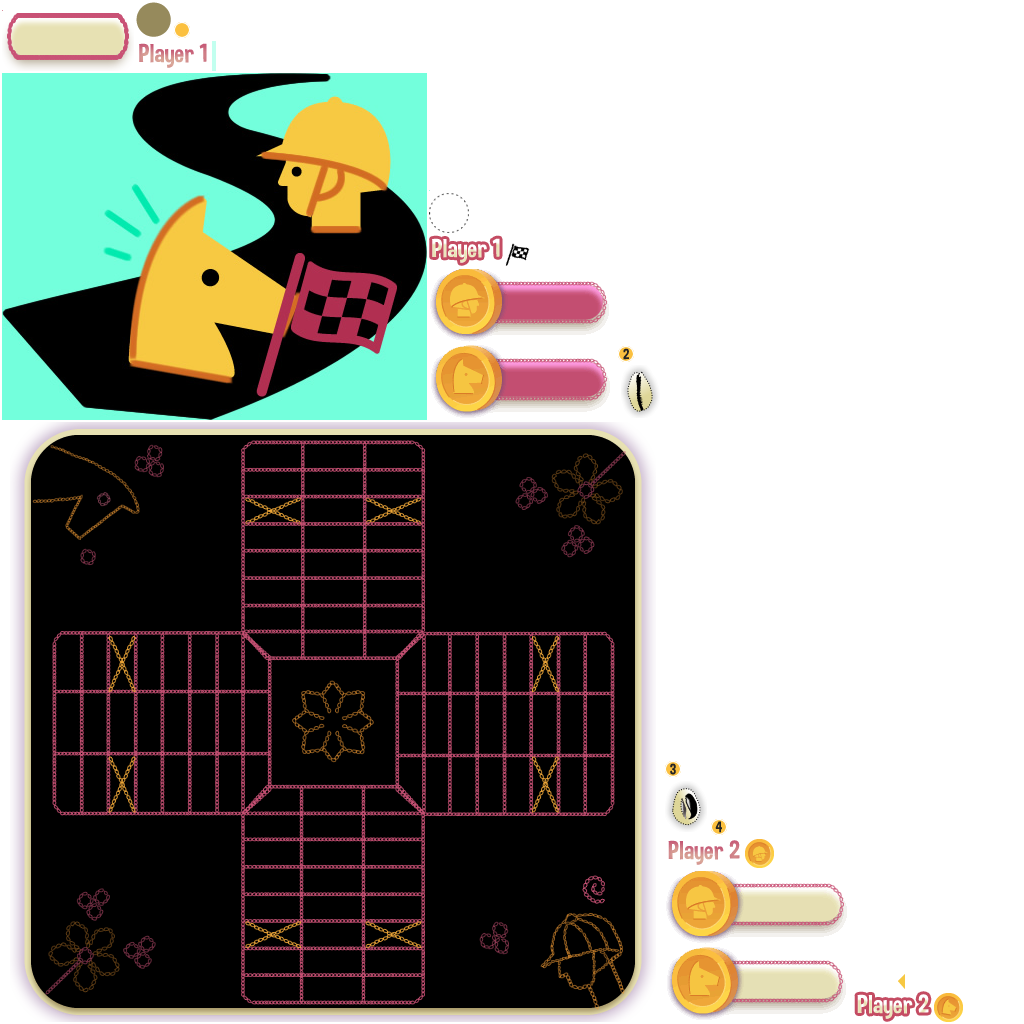
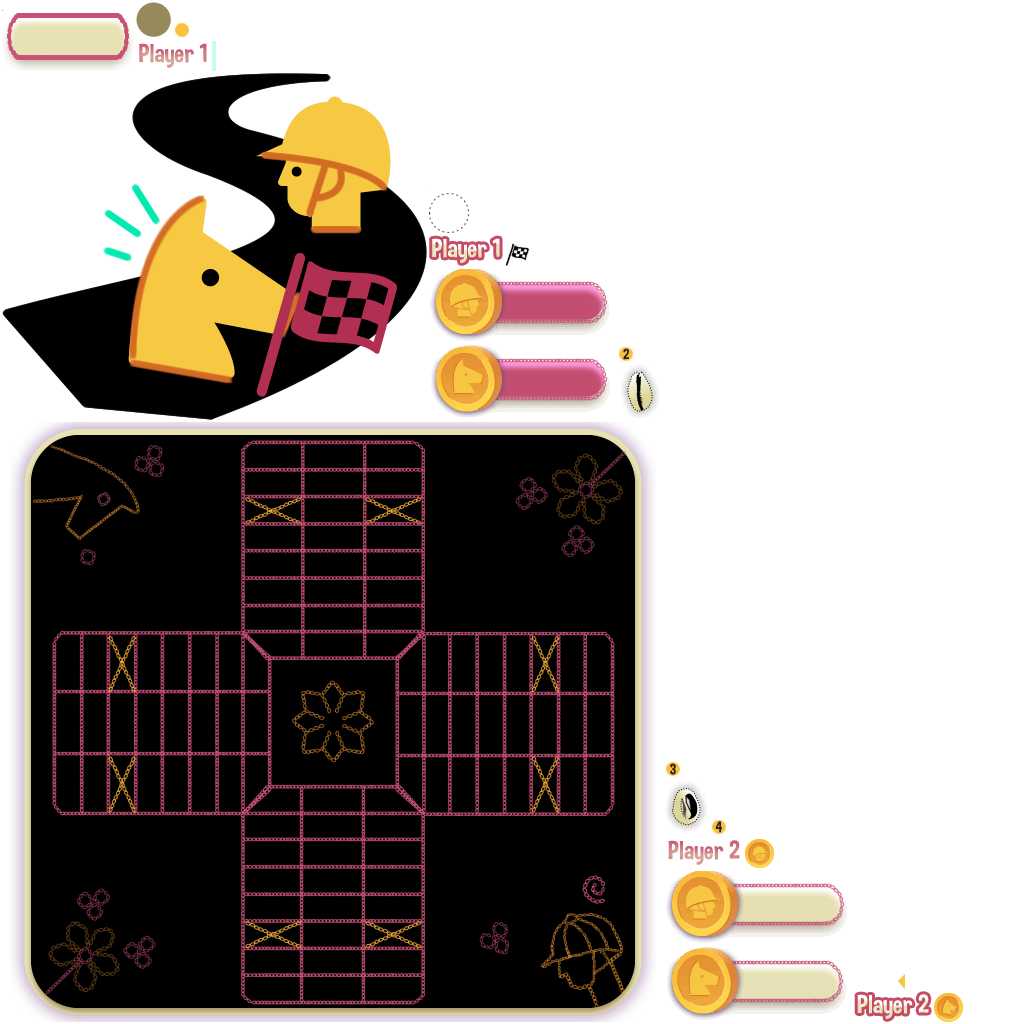
- work in progress main menu

Changed region(s): [[0.0, 0.0625, 0.4375, 0.4375], [0.2188, 0.25, 0.4375, 0.4375]]

diff --git a/core/src/com/smb215team/barjis/screens/MenuScreen.java b/core/src/com/smb215team/barjis/screens/MenuScreen.java
@@ -8,44 +8,27 @@ package com.smb215team.barjis.screens;
 import com.badlogic.gdx.Game;
 import com.badlogic.gdx.Gdx;
 import com.badlogic.gdx.InputProcessor;
-import com.badlogic.gdx.graphics.GL20;
 import com.badlogic.gdx.graphics.Color;
-import com.badlogic.gdx.graphics.g2d.TextureAtlas;
+import com.badlogic.gdx.graphics.GL20;
 import com.badlogic.gdx.scenes.scene2d.Stage;
-import com.badlogic.gdx.scenes.scene2d.Actor;
-import com.badlogic.gdx.scenes.scene2d.ui.Button;
-import com.badlogic.gdx.scenes.scene2d.ui.CheckBox;
 import com.badlogic.gdx.scenes.scene2d.ui.Image;
-import com.badlogic.gdx.scenes.scene2d.ui.Label;
-import com.badlogic.gdx.scenes.scene2d.ui.Label.LabelStyle;
-import com.badlogic.gdx.scenes.scene2d.ui.SelectBox;
-import com.badlogic.gdx.scenes.scene2d.ui.Skin;
-import com.badlogic.gdx.scenes.scene2d.ui.Slider;
-import com.badlogic.gdx.scenes.scene2d.ui.Stack;
 import com.badlogic.gdx.scenes.scene2d.ui.Table;
-import com.badlogic.gdx.scenes.scene2d.ui.TextButton;
-import com.badlogic.gdx.scenes.scene2d.ui.Window;
-import com.badlogic.gdx.scenes.scene2d.utils.ChangeListener;
 import com.badlogic.gdx.utils.viewport.FillViewport;
 import com.smb215team.barjis.game.Assets;
 import com.smb215team.barjis.util.Constants;
-
 /**
  *
  * @author dinosaadeh
  */
 public class MenuScreen extends AbstractGameScreen {
     private static final String TAG = MenuScreen.class.getName();
-    private Stage stage;
+    Stage stage;
+    Table table;
     private Image mainScreenLogo;
-    
-    // debug
-    private final float DEBUG_REBUILD_INTERVAL = 5.0f;
-    private boolean debugEnabled = false;
-    private float debugRebuildStage;
     
     public MenuScreen (Game game) {
         super(game);
+        
     }
     
     @Override
@@ -56,58 +39,35 @@ public class MenuScreen extends AbstractGameScreen {
         Gdx.gl.glClear(GL20.GL_COLOR_BUFFER_BIT);
         if(Gdx.input.isTouched())
             game.setScreen(new GameScreen(game));
-        
-        if (debugEnabled) {
-            debugRebuildStage -= deltaTime;
-            if (debugRebuildStage <= 0) {
-                debugRebuildStage = DEBUG_REBUILD_INTERVAL;
-                rebuildStage();
-            }
-        }
         stage.act(deltaTime);
         stage.draw();
     }
     
-    @Override public void resize (int width, int height) {
-        stage.getViewport().update(width, height, true);
-    }
+    @Override public void resize (int width, int height) { }
     
     @Override public void show () {
         stage = new Stage(new FillViewport(Constants.VIEWPORT_GUI_WIDTH, Constants.VIEWPORT_GUI_HEIGHT));
-        Gdx.input.setInputProcessor(stage);
-        rebuildStage();
+        table = new Table();
+        //table.setDebug(true);
+        //table.setBounds(0, 0, 100, 100);
+        table.row();
+        mainScreenLogo = new Image(Assets.instance.assetMainScreenLogo.assetMainScreenLogo);
+        table.setWidth(426);
+        table.setHeight(433.75f);
+        table.setDebug(true);
+        
+        table.add(mainScreenLogo).padLeft(10);
+        //table.setPosition(117.76f, 130f);
+        //table.setPosition(10f, 130f);
+        stage.addActor(table);
     }
     
-    @Override public void hide () {
-        stage.dispose();
-    }
+    @Override public void hide () { }
     
     @Override public void pause () { }
 
     @Override
     public InputProcessor getInputProcessor() {
         throw new UnsupportedOperationException("Not supported yet."); //To change body of generated methods, choose Tools | Templates.
-    }
-    
-    private void rebuildStage () {
-        // assemble stage for menu screen
-        stage.clear();
-        Stack stack = new Stack();
-        stage.addActor(stack);
-        stack.setSize(Constants.VIEWPORT_GUI_WIDTH, Constants.VIEWPORT_GUI_HEIGHT);
-        
-        // build all layers
-        Table layerBackground = buildBackgroundLayer();
-        
-        // assemble stage for menu screen
-        stack.add(layerBackground);
-    }
-    
-    private Table buildBackgroundLayer () {
-        Table layer = new Table();
-        // + Background
-        //mainScreenLogo = new Image(skinCanyonBunny, "background");
-        layer.add(mainScreenLogo);
-        return layer;
     }
 }

diff --git a/core/src/com/smb215team/barjis/game/Assets.java b/core/src/com/smb215team/barjis/game/Assets.java
@@ -38,6 +38,7 @@ public class Assets implements Disposable, AssetErrorListener {
     public PawnHighlightCanMove pawnHighlightCanMove;
     public AssetFonts fonts;
     public AssetPlayerLabels playerLabels;
+    public AssetMainScreenLogo assetMainScreenLogo;
 
     // singleton: prevent instantiation from other classes
     private Assets () {}
@@ -66,6 +67,7 @@ public class Assets implements Disposable, AssetErrorListener {
         phPawnOverlapCounter = new PHPawnOverlapCounter(atlas);
         pawnHighlightCanMove = new PawnHighlightCanMove(atlas);
         playerLabels = new AssetPlayerLabels(atlas);
+        assetMainScreenLogo = new AssetMainScreenLogo(atlas);
         // </editor-fold>
     }
 
@@ -173,7 +175,15 @@ public class Assets implements Disposable, AssetErrorListener {
             pawnHighlightCanMove = atlas.findRegion("pawn-highlight-can-move");
         }
     }
-                
+    
+    public class AssetMainScreenLogo {
+        public final AtlasRegion assetMainScreenLogo;
+        
+        public AssetMainScreenLogo (TextureAtlas atlas){
+            assetMainScreenLogo = atlas.findRegion("main-screen-logo");
+        }
+    }
+    
     public class AssetFonts {
         public final BitmapFont defaultNormal;
         public final BitmapFont flippedDefaultNormal;
